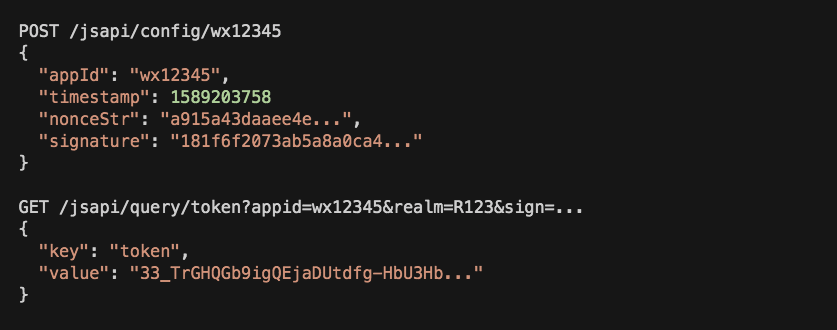
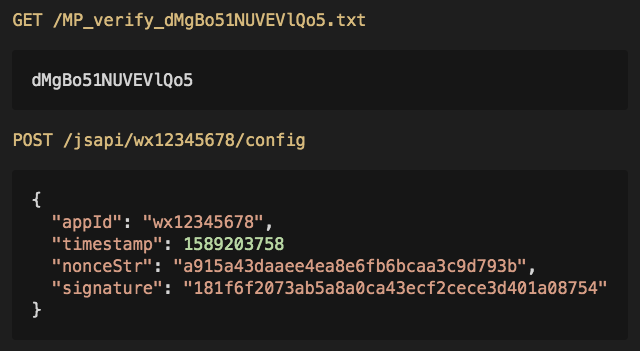
make API URL semantically, and reduce docker image size

diff --git a/__tests__/e2e.spec.js b/__tests__/e2e.spec.js
@@ -24,8 +24,8 @@ describe('e2e', () => {
     expect(res).toEqual('randomString')
   })
 
-  it('POST /jsapi/config/dummy_app_key', async () => {
-    const res = await http.post('/jsapi/config/dummy_app_key', {any: 'data'})
+  it('POST /jsapi/:appid/config', async () => {
+    const res = await http.post('/jsapi/dummy_app_key/config', {any: 'data'})
     expect(res.appId).toEqual('dummy_app_key')
     expect(typeof res.timestamp).toBe('number')
     expect(typeof res.nonceStr).toBe('string')
@@ -33,18 +33,26 @@ describe('e2e', () => {
     expect(res.any).toEqual('data')
   })
 
-  it('GET /jsapi/query/token', async () => {
-    const qs = `realm=dummy_realm_key&nonce=nonce&ts=${Date.now()}`
-    const sign = createHash('md5').update(qs + '.dummy_realm_secret').digest('hex')
-    const res = await http.get(`/jsapi/query/token?appid=dummy_app_key&${qs}&sign=${sign}`)
-    expect(res).toEqual({key: 'token', value: 'access_token'})
-  })
+  describe('GET /jsapi/:appid/query', () => {
+    it('query token by default', async () => {
+      const qs = `realm=dummy_realm_key&nonce=nonce&ts=${Date.now()}`
+      const sign = createHash('md5').update(qs + '.dummy_realm_secret').digest('hex')
+      const res = await http.get(`/jsapi/dummy_app_key/query?${qs}&sign=${sign}`)
+      expect(res).toEqual({key: 'token', value: 'access_token'})
+    })
 
-  it('GET /jsapi/query/ticket', async () => {
-    const qs = `realm=dummy_realm_key&nonce=nonce&ts=${Date.now()}`
-    const sign = createHash('md5').update(qs + '.dummy_realm_secret').digest('hex')
-    const res = await http.get(`/jsapi/query/ticket?appid=dummy_app_key&${qs}&sign=${sign}`)
-    expect(res).toEqual({key: 'ticket', value: 'ticket'})
-  })
+    it('query token', async () => {
+      const qs = `realm=dummy_realm_key&nonce=nonce&ts=${Date.now()}`
+      const sign = createHash('md5').update(qs + '.dummy_realm_secret').digest('hex')
+      const res = await http.get(`/jsapi/dummy_app_key/query?key=token&${qs}&sign=${sign}`)
+      expect(res).toEqual({key: 'token', value: 'access_token'})
+    })
 
+    it('query ticket', async () => {
+      const qs = `realm=dummy_realm_key&nonce=nonce&ts=${Date.now()}`
+      const sign = createHash('md5').update(qs + '.dummy_realm_secret').digest('hex')
+      const res = await http.get(`/jsapi/dummy_app_key/query?key=ticket&${qs}&sign=${sign}`)
+      expect(res).toEqual({key: 'ticket', value: 'ticket'})
+    })
+  })
 })

diff --git a/src/middlewares/query.js b/src/middlewares/query.js
@@ -2,15 +2,16 @@ const {httpError} = require('./utils')
 
 const allowedKeys = ['token', 'ticket']
 module.exports = (req, res, next) => {
-  const {key} = req.params
+  const {appid} = req.params
+  const {key = 'token'} = req.query
   if(!allowedKeys.includes(key)) {
     return next(httpError(400, 'unknown key'))
   }
   
   const {getAccessToken, getTicket, config} = req.jsdkd
-  const app = config.getApp(req.query.appid)
+  const app = config.getApp(appid)
   if(!app) {
-    return next(httpError(404, 'unknown app'))
+    return next(httpError(400, 'unknown app'))
   }
 
   let task = null

diff --git a/src/configure.js b/src/configure.js
@@ -23,8 +23,8 @@ module.exports = function configure(app) {
   app.get(/\/MP_verify_([\w]+?)\.txt$/i, middlewares.echo)
 
   // POST /jsapi/config/:appid
-  app.post('/jsapi/config/:appid', middlewares.config)
+  app.post('/jsapi/:appid/config', middlewares.config)
 
-  // GET /jsapi/query/:key?appid=&realm=&nonce=&ts=&sign=
-  app.get('/jsapi/query/:key', middlewares.verify(3e5), middlewares.query)
+  // GET /jsapi/:appid/query?key=[token,ticket]&realm=&nonce=&ts=&sign=
+  app.get('/jsapi/:appid/query', middlewares.verify(3e5), middlewares.query)
 }

diff --git a/README.md b/README.md
@@ -44,12 +44,12 @@
 dBGMo51NUVEVlQo5
 ```
 
-- `POST /jsapi/config/:appid`
+- `POST /jsapi/:appid/config`
 
 > 获取wx.config接口数据.
 
 ```
-> POST /jsapi/config/wx12345678
+> POST /jsapi/wx12345678/config
 > Content-Type: application/json
 
 {
@@ -72,12 +72,16 @@ dBGMo51NUVEVlQo5
 }
 ```
 
-- `GET /jsapi/query/:key?appid=&realm=&nonce=&ts=&sign=`
+> 请求参数:
+
+- appid: 公众号AppId
+
+- `GET /jsapi/:appid/query?[key=]&realm=&nonce=&ts=&sign=`
 
 > 查询access_token和jsapi_ticket, **必须对请求进行签名验证**.
 
 ```
-> GET /jsapi/query/token?appid=wx12345678&realm=R123&nonce=caa3c9d793b&ts=1589203758&sign=6f3c945fc7a738c1ec80efc8a97187e0
+> GET /jsapi/wx12345678/query?key=token&realm=R123&nonce=caa3c9d793b&ts=1589203758&sign=6f3c945fc7a738c1ec80efc8a97187e0
 
 < HTTP/1.1 200 OK
 < Content-Type: application/json; charset=utf-8
@@ -90,8 +94,8 @@ dBGMo51NUVEVlQo5
 
 > 请求参数:
 
-- key: `token` or `ticket`
 - appid: 公众号AppId
+- key: 可选, 指定要查询的key, 有效值为:`token` or `ticket`, 默认为`token`
 - realm: config文件中定义的外部应用key
 - nonce: 随机字符串
 - ts: Unix时间戳(ms), 注意: 与服务器的时间差不能超过5分钟
